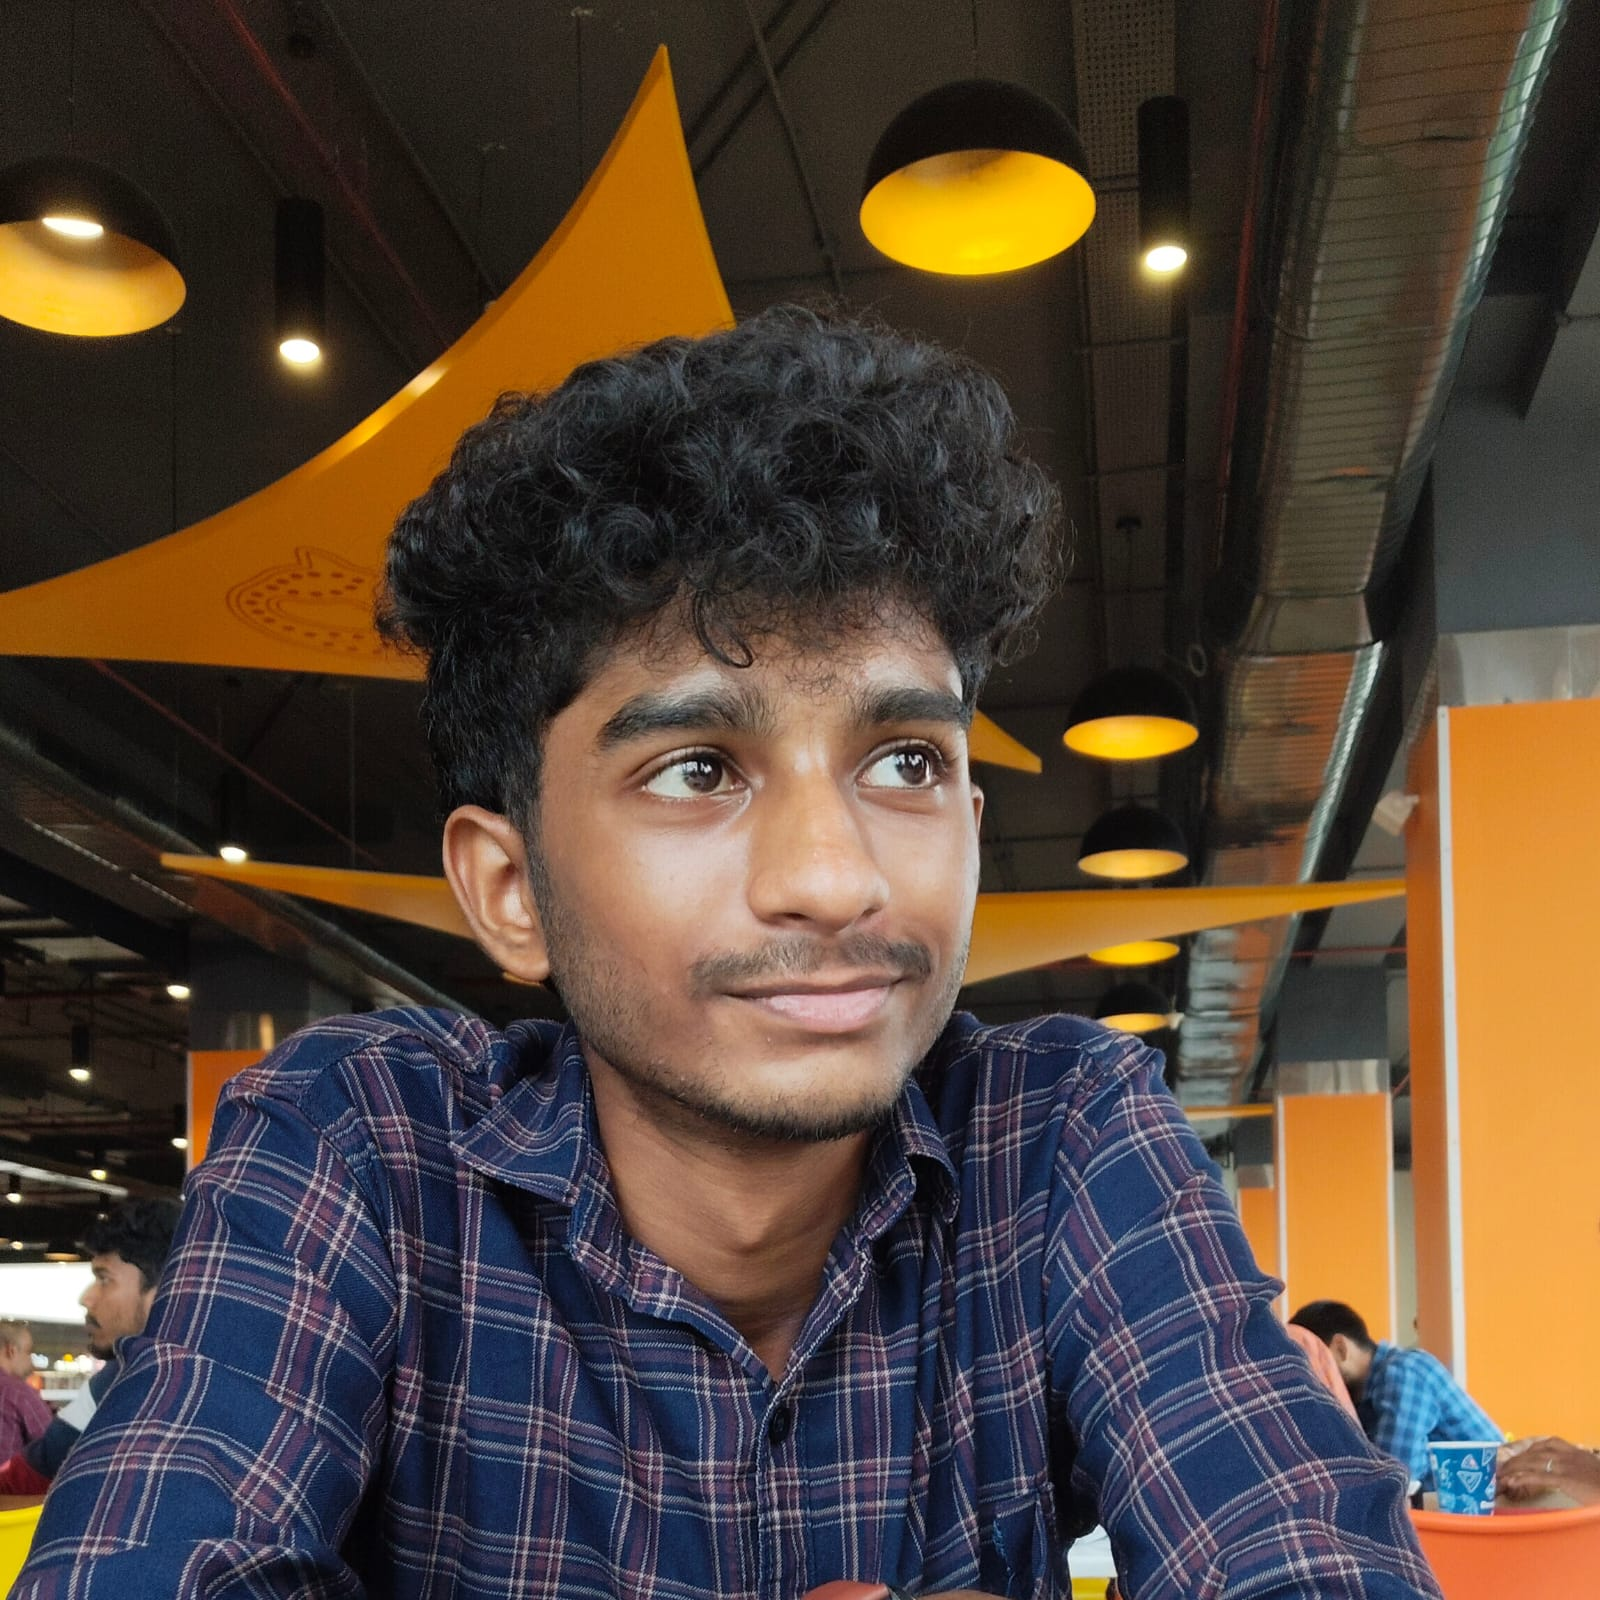
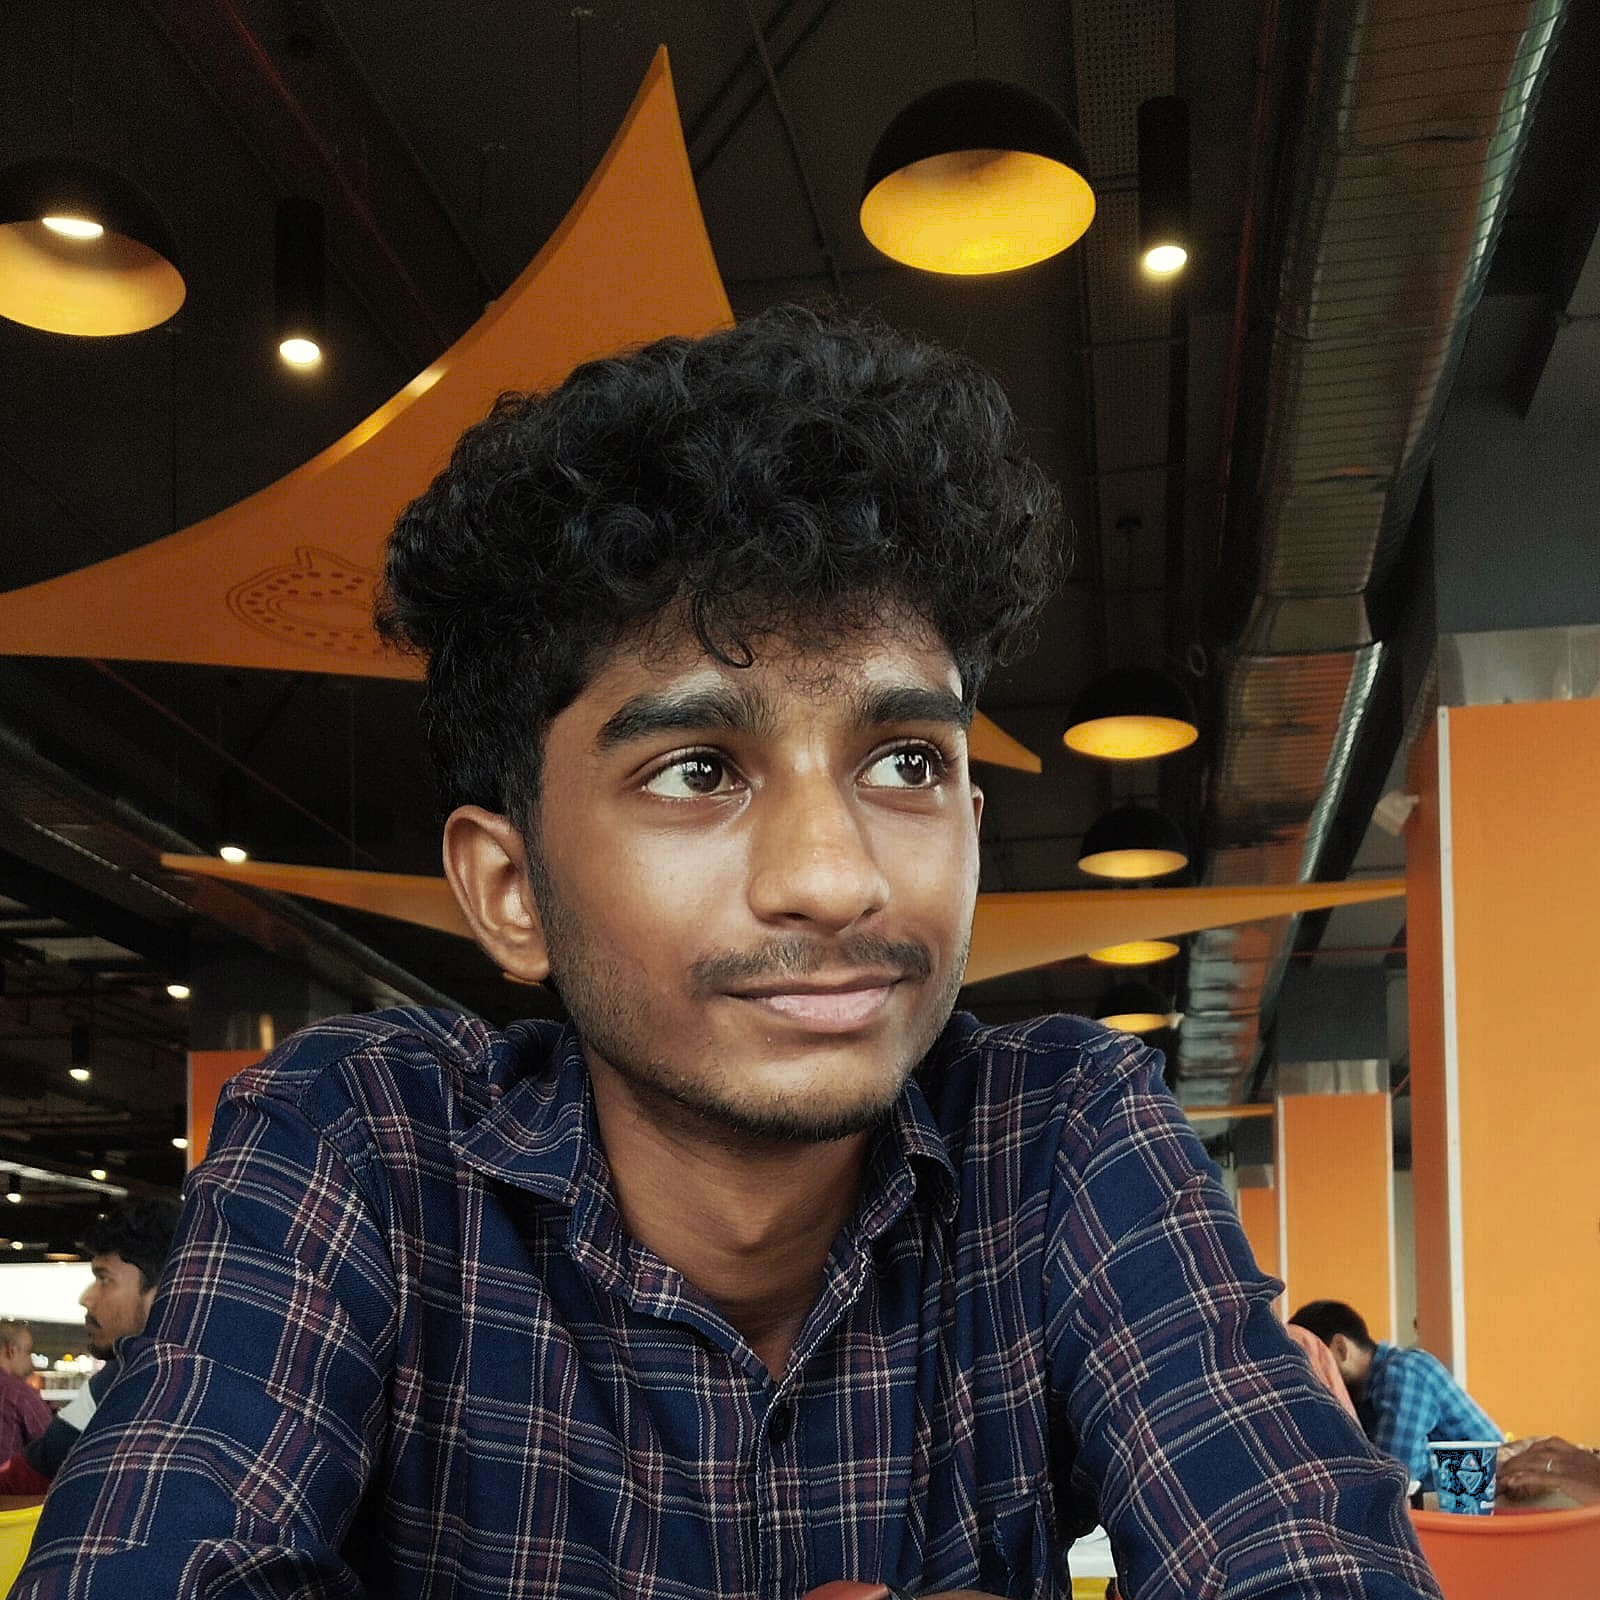
Modifications

diff --git a/src/components/Projects.jsx b/src/components/Projects.jsx
@@ -230,7 +230,7 @@ function Projects() {
 
   return (
     <AnimatedSection className="section-shell min-h-screen flex flex-col justify-center" id="projects" direction="zoom">
-      <div className="mx-auto max-w-7xl px-4 sm:px-6 lg:px-8 w-full flex-grow flex flex-col justify-center">
+      <div className="mx-auto max-w-7xl translate-y-6 px-4 sm:translate-y-7 sm:px-6 lg:translate-y-8 lg:px-8 w-full flex-grow flex flex-col justify-center">
         <SectionHeading
           eyebrow="Projects"
         />
@@ -597,6 +597,7 @@ function Projects() {
 }
 
 export default memo(Projects);
+
 
 
 

diff --git a/src/index.css b/src/index.css
@@ -751,7 +751,9 @@ img {
   }
 
   .portfolio-video-background {
-    display: none;
+    display: block;
+    opacity: 0.34;
+    filter: saturate(0.9) contrast(1.02) brightness(0.72);
   }
 
   .ragas-subproject-logo-float img {
@@ -820,6 +822,7 @@ img {
     animation-iteration-count: 1 !important;
   }
 }
+
 
 
 
